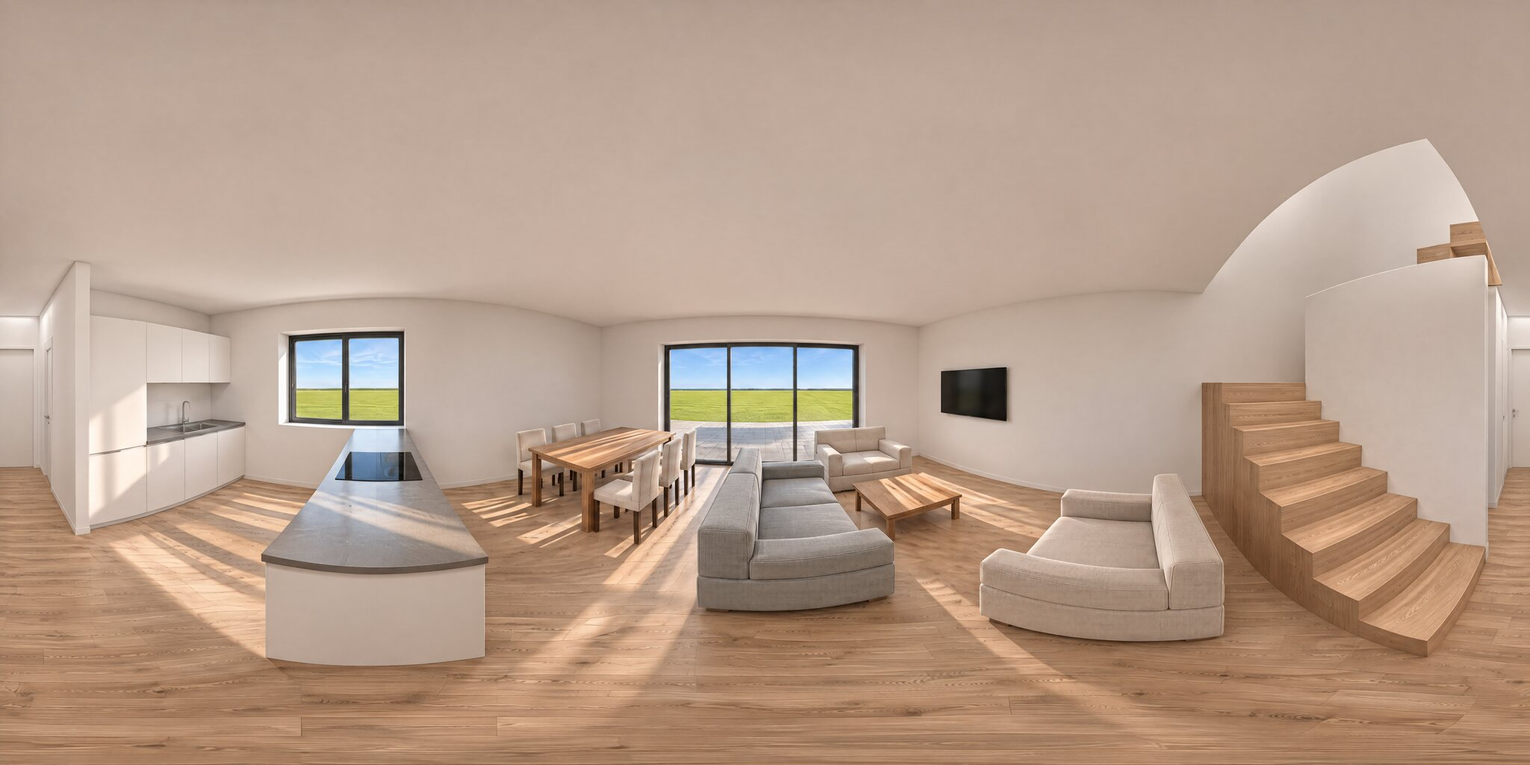
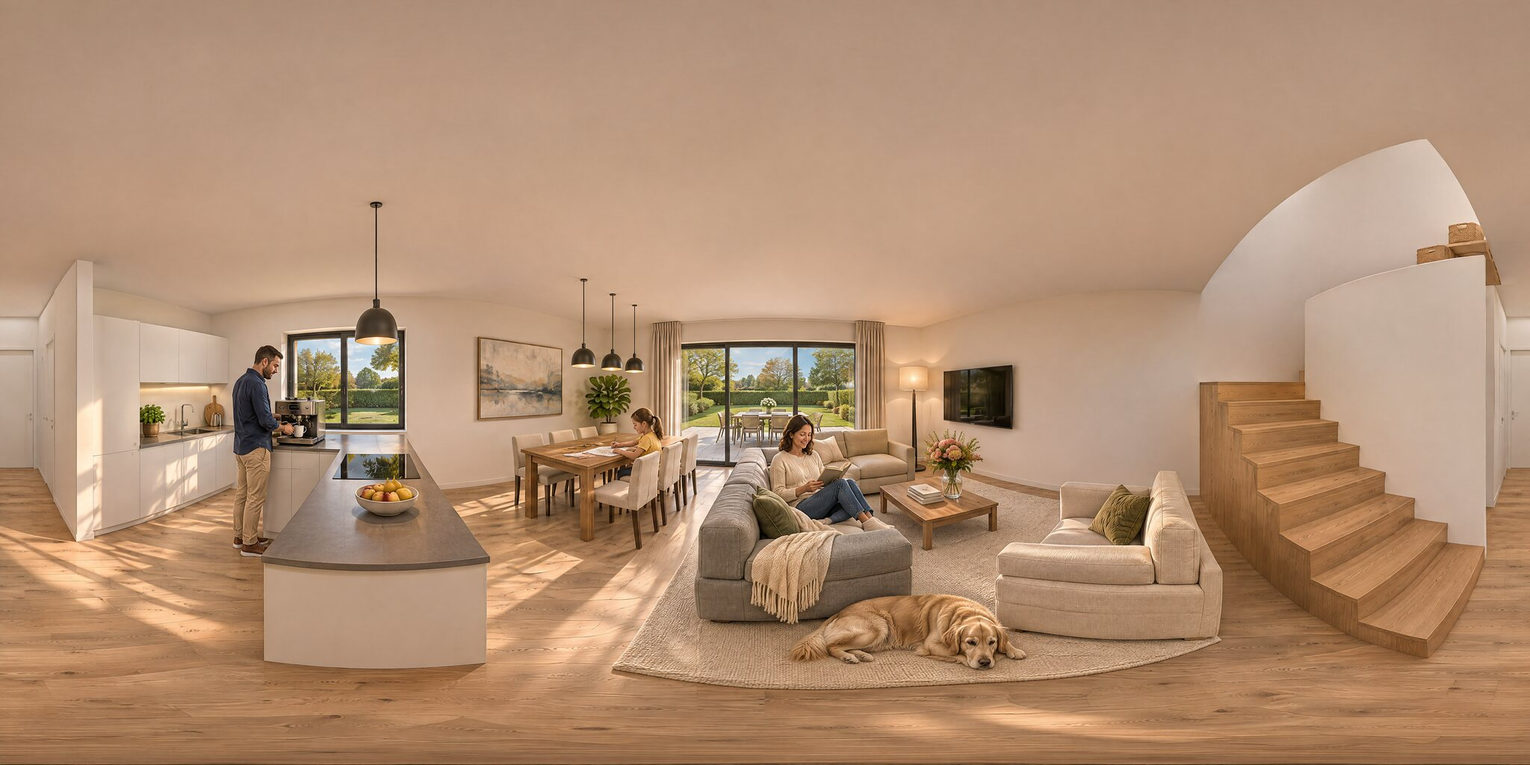
Wirtualny spacer: pięć punktów z ogrodem i wejściem, plan, opisy, pełny ekran

diff --git a/js/spacer.js b/js/spacer.js
@@ -1,10 +1,10 @@
-// Wirtualny spacer: przeglądarka panoram 360° (WebGL, bez bibliotek). Punkty i przejścia w window.SPACER.
+// Wirtualny spacer: przeglądarka panoram 360° (WebGL, bez bibliotek). Punkty, przejścia, opisy i plan w window.SPACER.
 (function () {
   var S = window.SPACER, pole = document.getElementById('spacer'), cv = document.getElementById('spacer-plotno');
   if (!S || !pole || !cv) return;
-  var gl = cv.getContext('webgl', { antialias: false, preserveDrawingBuffer: false });
+  var gl = cv.getContext('webgl', { antialias: false });
   var info = document.getElementById('spacer-info');
-  if (!gl) { info.textContent = 'Ta przeglądarka nie obsługuje podglądu 360°. Poniżej zwykłe obrazy z każdego punktu.'; pole.classList.add('spacer--bez'); return; }
+  if (!gl) { info.textContent = 'Ta przeglądarka nie obsługuje podglądu 360°.'; pole.classList.add('spacer--bez'); return; }
 
   function shader(typ, kod) { var s = gl.createShader(typ); gl.shaderSource(s, kod); gl.compileShader(s); return s; }
   var pr = gl.createProgram();
@@ -22,12 +22,15 @@
   var ap = gl.getAttribLocation(pr, 'p'); gl.enableVertexAttribArray(ap); gl.vertexAttribPointer(ap, 2, gl.FLOAT, false, 0, 0);
   var U = {}; ['yaw', 'pitch', 'tg', 'asp'].forEach(function (n) { U[n] = gl.getUniformLocation(pr, n); });
   var tex = gl.createTexture(); gl.bindTexture(gl.TEXTURE_2D, tex);
-  gl.texParameteri(gl.TEXTURE_2D, gl.TEXTURE_WRAP_S, gl.CLAMP_TO_EDGE); gl.texParameteri(gl.TEXTURE_2D, gl.TEXTURE_WRAP_T, gl.CLAMP_TO_EDGE);
+  gl.texParameteri(gl.TEXTURE_2D, gl.TEXTURE_WRAP_S, gl.REPEAT); gl.texParameteri(gl.TEXTURE_2D, gl.TEXTURE_WRAP_T, gl.CLAMP_TO_EDGE);
   gl.texParameteri(gl.TEXTURE_2D, gl.TEXTURE_MIN_FILTER, gl.LINEAR); gl.texParameteri(gl.TEXTURE_2D, gl.TEXTURE_MAG_FILTER, gl.LINEAR);
 
-  var yaw = 0, pitch = 0, akt = 0, FOV = 75 * Math.PI / 180, gotowe = false;
-  var maly = Math.min(gl.getParameter(gl.MAX_TEXTURE_SIZE), 4096) < 4096;
+  var RAD = Math.PI / 180, yaw = 0, pitch = 0, fov = 78 * RAD, akt = -1, gotowe = false, ruszone = false;
+  var vy = 0, vp = 0, ciagnie = false, klatka = 0, ost = 0;
+  var maly = gl.getParameter(gl.MAX_TEXTURE_SIZE) < 4096;
   var znaczniki = document.getElementById('spacer-znaczniki'), lista = document.getElementById('spacer-punkty');
+  var plan = document.getElementById('spacer-plan'), stozek = document.getElementById('spacer-stozek');
+  var bezRuchu = window.matchMedia('(prefers-reduced-motion: reduce)').matches;
 
   function rozmiar() {
     var r = cv.getBoundingClientRect(), d = Math.min(window.devicePixelRatio || 1, 2);
@@ -37,10 +40,9 @@
   }
   function rysuj() {
     if (!gotowe) return;
-    var r = rozmiar(), asp = r.width / r.height, tg = Math.tan(FOV / 2);
+    var r = rozmiar(), asp = r.width / r.height, tg = Math.tan(fov / 2);
     gl.uniform1f(U.yaw, yaw); gl.uniform1f(U.pitch, pitch); gl.uniform1f(U.tg, tg); gl.uniform1f(U.asp, asp);
     gl.drawArrays(gl.TRIANGLE_STRIP, 0, 4);
-    // przejścia: pigułki z nazwą punktu, ustawione w kierunku, w którym ten punkt leży na rzucie
     Array.prototype.forEach.call(znaczniki.children, function (z) {
       var k = +z.dataset.yaw, p = +z.dataset.pitch;
       var x = Math.sin(k) * Math.cos(p), y = Math.sin(p), zz = Math.cos(k) * Math.cos(p);
@@ -48,50 +50,102 @@
       var cp = Math.cos(-pitch), sp = Math.sin(-pitch), y2 = y * cp + z1 * sp, z2 = z1 * cp - y * sp;
       if (z2 <= 0.05) { z.hidden = true; return; }
       var sx = x1 / z2 / (tg * asp), syy = y2 / z2 / tg;
-      z.hidden = Math.abs(sx) > 1.05 || Math.abs(syy) > 1.05;
+      z.hidden = Math.abs(sx) > 1.02 || Math.abs(syy) > 1.02;
       z.style.left = ((sx + 1) / 2 * 100) + '%'; z.style.top = ((1 - syy) / 2 * 100) + '%';
     });
+    if (stozek) stozek.style.transform = 'translate(-50%, -50%) rotate(' + (yaw / RAD) + 'deg)';
+  }
+  function kierunek(p, x, y, z) {
+    var dx = x - p.x, dw = -(y - p.y), odl = Math.sqrt(dx * dx + dw * dw) || 1;
+    return [Math.atan2(dx, dw), Math.atan((z - 150) / odl)];
+  }
+  function ustawPunkt(n) {
+    var p = S.punkty[n]; akt = n;
+    yaw = (p.start || 0) * RAD; pitch = 0; fov = 78 * RAD; vy = vp = 0;
+    znaczniki.innerHTML = '';
+    S.punkty.forEach(function (q, k) {
+      if (k === n || (p.do && p.do.indexOf(k) < 0)) return;
+      var d = kierunek(p, q.x, q.y, 55);
+      var b = document.createElement('button'); b.type = 'button'; b.className = 'spacer__przejscie'; b.textContent = q.nazwa;
+      b.dataset.yaw = d[0]; b.dataset.pitch = Math.max(d[1], -0.5);
+      b.addEventListener('click', function () { pokaz(k); });
+      znaczniki.appendChild(b);
+    });
+    (p.fakty || []).forEach(function (f) {
+      var d = kierunek(p, f.x, f.y, f.z);
+      var b = document.createElement('button'); b.type = 'button'; b.className = 'spacer__fakt'; b.setAttribute('aria-expanded', 'false');
+      b.innerHTML = '<span class="spacer__fakt-znak" aria-hidden="true">i</span><span class="spacer__fakt-tekst">' + f.t + '</span>';
+      b.dataset.yaw = d[0]; b.dataset.pitch = d[1];
+      b.addEventListener('click', function () { b.setAttribute('aria-expanded', b.getAttribute('aria-expanded') !== 'true'); });
+      znaczniki.appendChild(b);
+    });
+    Array.prototype.forEach.call(lista.children, function (b, k) { b.setAttribute('aria-pressed', k === n); });
+    if (plan) Array.prototype.forEach.call(plan.querySelectorAll('[data-punkt]'), function (b) { b.setAttribute('aria-current', +b.dataset.punkt === n); });
+    if (stozek) { stozek.style.left = (p.u * 100) + '%'; stozek.style.top = (p.v * 100) + '%'; }
+    info.textContent = p.opis;
   }
   function pokaz(n) {
-    akt = n; var p = S.punkty[n]; gotowe = false; pole.classList.add('spacer--laduje');
+    if (n === akt) return;
+    var p = S.punkty[n]; pole.classList.add('spacer--laduje');
     var im = new Image();
     im.onload = function () {
-      gl.bindTexture(gl.TEXTURE_2D, tex); gl.texImage2D(gl.TEXTURE_2D, 0, gl.RGB, gl.RGB, gl.UNSIGNED_BYTE, im);
-      gotowe = true; pole.classList.remove('spacer--laduje'); yaw = (p.start || 0) * Math.PI / 180; pitch = 0;
-      znaczniki.innerHTML = '';
-      S.punkty.forEach(function (q, k) {
-        if (k === n) return;
-        var dx = q.x - p.x, dw = -(q.y - p.y), odl = Math.sqrt(dx * dx + dw * dw);
-        var b = document.createElement('button'); b.type = 'button'; b.className = 'spacer__przejscie'; b.textContent = q.nazwa;
-        b.dataset.yaw = Math.atan2(dx, dw); b.dataset.pitch = -Math.atan(95 / odl);
-        b.addEventListener('click', function () { pokaz(k); });
-        znaczniki.appendChild(b);
-      });
-      Array.prototype.forEach.call(lista.children, function (b, k) { b.setAttribute('aria-pressed', k === n); });
-      info.textContent = p.opis; rysuj();
+      setTimeout(function () {
+        gl.bindTexture(gl.TEXTURE_2D, tex); gl.pixelStorei(gl.UNPACK_FLIP_Y_WEBGL, false);
+        gl.texImage2D(gl.TEXTURE_2D, 0, gl.RGB, gl.RGB, gl.UNSIGNED_BYTE, im);
+        gotowe = true; ustawPunkt(n); rysuj(); pole.classList.remove('spacer--laduje');
+      }, akt < 0 || bezRuchu ? 0 : 260);
     };
     im.src = maly ? p.maly : p.obraz;
   }
   S.punkty.forEach(function (p, k) {
     var b = document.createElement('button'); b.type = 'button'; b.textContent = p.nazwa; b.setAttribute('aria-pressed', 'false');
     b.addEventListener('click', function () { pokaz(k); }); lista.appendChild(b);
+    if (plan) {
+      var m = document.createElement('button'); m.type = 'button'; m.className = 'spacer__plan-punkt'; m.dataset.punkt = k;
+      m.style.left = (p.u * 100) + '%'; m.style.top = (p.v * 100) + '%'; m.setAttribute('aria-label', p.nazwa); m.title = p.nazwa;
+      m.addEventListener('click', function () { pokaz(k); }); plan.appendChild(m);
+    }
   });
 
-  // obracanie: przeciąganie w poziomie i w pionie (na telefonie pionowy ruch przewija stronę), strzałki na klawiaturze
-  var ciagnie = false, px = 0, py = 0;
-  function ogranicz() { pitch = Math.max(-1.2, Math.min(1.2, pitch)); }
-  cv.addEventListener('pointerdown', function (e) { ciagnie = true; px = e.clientX; py = e.clientY; cv.setPointerCapture(e.pointerId); pole.classList.add('spacer--ruszony'); });
+  // ruch: przeciąganie z wybiegiem, powolny obrót do pierwszego dotknięcia, kółko i przyciski przybliżają
+  function ogranicz() { pitch = Math.max(-1.25, Math.min(1.25, pitch)); fov = Math.max(40 * RAD, Math.min(95 * RAD, fov)); }
+  function dotkniete() { if (!ruszone) { ruszone = true; pole.classList.add('spacer--ruszony'); } }
+  function tyka(t) {
+    var dt = Math.min(50, t - ost || 16); ost = t;
+    if (!ciagnie && gotowe) {
+      if (!ruszone && !bezRuchu) { yaw += 0.00006 * dt; rysuj(); }
+      else if (Math.abs(vy) > 0.00002 || Math.abs(vp) > 0.00002) { yaw += vy * dt; pitch += vp * dt; vy *= 0.93; vp *= 0.93; ogranicz(); rysuj(); }
+    }
+    klatka = requestAnimationFrame(tyka);
+  }
+  var px = 0, py = 0, pt = 0;
+  cv.addEventListener('pointerdown', function (e) { ciagnie = true; px = e.clientX; py = e.clientY; pt = e.timeStamp; vy = vp = 0; cv.setPointerCapture(e.pointerId); dotkniete(); });
   cv.addEventListener('pointermove', function (e) {
     if (!ciagnie) return;
-    var r = cv.getBoundingClientRect(), k = FOV / r.height;
-    yaw -= (e.clientX - px) * k; if (e.pointerType === 'mouse') pitch += (e.clientY - py) * k;
-    px = e.clientX; py = e.clientY; ogranicz(); rysuj();
+    var r = cv.getBoundingClientRect(), k = fov / r.height, dt = Math.max(1, e.timeStamp - pt);
+    var dy = -(e.clientX - px) * k, dp = (e.pointerType === 'mouse' || pole.classList.contains('spacer--pelny')) ? (e.clientY - py) * k : 0;
+    yaw += dy; pitch += dp; vy = dy / dt; vp = dp / dt; px = e.clientX; py = e.clientY; pt = e.timeStamp; ogranicz(); rysuj();
   });
   ['pointerup', 'pointercancel'].forEach(function (n) { cv.addEventListener(n, function () { ciagnie = false; }); });
+  cv.addEventListener('wheel', function (e) { if (!e.ctrlKey && !pole.classList.contains('spacer--pelny')) return; e.preventDefault(); fov += e.deltaY * 0.0012; ogranicz(); rysuj(); dotkniete(); }, { passive: false });
   cv.addEventListener('keydown', function (e) {
-    var d = { ArrowLeft: [-0.12, 0], ArrowRight: [0.12, 0], ArrowUp: [0, 0.08], ArrowDown: [0, -0.08] }[e.key];
-    if (!d) return; e.preventDefault(); yaw += d[0]; pitch += d[1]; ogranicz(); rysuj(); pole.classList.add('spacer--ruszony');
+    var d = { ArrowLeft: [-0.12, 0, 0], ArrowRight: [0.12, 0, 0], ArrowUp: [0, 0.08, 0], ArrowDown: [0, -0.08, 0], '+': [0, 0, -0.1], '=': [0, 0, -0.1], '-': [0, 0, 0.1] }[e.key];
+    if (!d) return; e.preventDefault(); yaw += d[0]; pitch += d[1]; fov += d[2]; ogranicz(); rysuj(); dotkniete();
   });
+  Array.prototype.forEach.call(pole.querySelectorAll('[data-zoom]'), function (b) {
+    b.addEventListener('click', function () { fov += +b.dataset.zoom * RAD; ogranicz(); rysuj(); dotkniete(); });
+  });
+  var pe = pole.querySelector('[data-pelny]');
+  function pelny(tak) { pole.classList.toggle('spacer--pelny', tak); document.documentElement.classList.toggle('spacer-otwarty', tak); if (pe) pe.textContent = tak ? 'Zamknij' : 'Pełny ekran'; setTimeout(rysuj, 60); }
+  if (pe) pe.addEventListener('click', function () {
+    var tak = !pole.classList.contains('spacer--pelny');
+    if (tak && pole.requestFullscreen) pole.requestFullscreen().catch(function () {});
+    else if (!tak && document.fullscreenElement) document.exitFullscreen();
+    pelny(tak);
+  });
+  document.addEventListener('fullscreenchange', function () { if (!document.fullscreenElement) pelny(false); });
+  document.addEventListener('keydown', function (e) { if (e.key === 'Escape' && pole.classList.contains('spacer--pelny')) pelny(false); });
   window.addEventListener('resize', rysuj);
+  klatka = requestAnimationFrame(tyka);
   pokaz(0);
 })();

diff --git a/spacer.html b/spacer.html
@@ -5,7 +5,7 @@
 <meta name="viewport" content="width=device-width, initial-scale=1">
 <meta name="robots" content="noindex, nofollow">
 <title>Wirtualny spacer: dom typu B | Osiedle Spełnionych Marzeń</title>
-<meta name="description" content="Wirtualny spacer 360° po parterze domu typu B na osiedlu przy ul. Spełnionych Marzeń w Dobrej: pokój dzienny, jadalnia, kuchnia i hol, według rzutu z projektu.">
+<meta name="description" content="Wirtualny spacer 360° po domu typu B na osiedlu przy ul. Spełnionych Marzeń w Dobrej: pokój dzienny, jadalnia, kuchnia, hol, ogród i wejście.">
 <link rel="icon" href="img/ikona.svg" type="image/svg+xml">
 <link rel="apple-touch-icon" href="img/ikona.png">
 <link rel="preload" href="fonty/onest.woff2" as="font" type="font/woff2" crossorigin>
@@ -43,21 +43,30 @@
 
 <main id="tresc">
 
-<section class="pod-glowa">
+<section class="pod-glowa spacer-glowa">
   <div class="w">
     <nav class="okruszki" aria-label="Ścieżka"><a href="index.html">Osiedle</a><span aria-hidden="true">/</span><a href="index.html#typy">Typy domów</a><span aria-hidden="true">/</span><a href="typ-b.html">Typ B</a><span aria-hidden="true">/</span><span aria-current="page">Wirtualny spacer</span></nav>
     <h1>Wirtualny spacer.</h1>
-    <p class="pod-lid">Dom typu B, parter: pokój dzienny ze schodami (28,75&nbsp;m²) i kuchnia (6,89&nbsp;m²), powierzchnie według tabeli pomieszczeń. Przeciągnij obraz, żeby się rozejrzeć, i wybierz punkt, żeby przejść dalej.</p>
+    <p class="pod-lid">Dom typu B: pokój dzienny, jadalnia z kuchnią, hol, ogród i wejście. Przeciągnij obraz, żeby się rozejrzeć, i wybierz punkt, żeby przejść dalej.</p>
     <div class="spacer" id="spacer">
-      <canvas id="spacer-plotno" tabindex="0" role="img" aria-label="Panorama 360° wnętrza domu typu B. Strzałki na klawiaturze obracają widok."></canvas>
+      <canvas id="spacer-plotno" tabindex="0" role="img" aria-label="Panorama 360° domu typu B. Strzałki na klawiaturze obracają widok, plus i minus przybliżają."></canvas>
       <div id="spacer-znaczniki"></div>
+      <div class="spacer__narzedzia">
+        <button type="button" data-zoom="-10" aria-label="Przybliż">+</button>
+        <button type="button" data-zoom="10" aria-label="Oddal">&minus;</button>
+        <button type="button" data-pelny>Pełny ekran</button>
+      </div>
+      <div class="spacer__plan" id="spacer-plan" aria-label="Plan parteru z punktami spaceru">
+        <img src="img/spacer/plan-b-parter.webp" width="720" height="720" alt="">
+        <span class="spacer__stozek" id="spacer-stozek"></span>
+      </div>
       <p class="spacer__podpowiedz">Przeciągnij, żeby się rozejrzeć</p>
     </div>
     <div class="spacer__pasek">
       <div class="filtr" role="group" aria-label="Punkt spaceru" id="spacer-punkty"></div>
       <p id="spacer-info" aria-live="polite"></p>
     </div>
-    <noscript><div class="wizualizacje"><figure><img src="img/spacer/b-parter-salon-2048.jpg" width="2048" height="1024" alt="Panorama: pokój dzienny, dom typu B, parter" loading="lazy"><figcaption>Pokój dzienny</figcaption></figure><figure><img src="img/spacer/b-parter-jadalnia-kuchnia-2048.jpg" width="2048" height="1024" alt="Panorama: jadalnia i kuchnia, dom typu B, parter" loading="lazy"><figcaption>Jadalnia i kuchnia</figcaption></figure><figure><img src="img/spacer/b-parter-hol-2048.jpg" width="2048" height="1024" alt="Panorama: hol przy schodach, dom typu B, parter" loading="lazy"><figcaption>Hol przy schodach</figcaption></figure></div></noscript>
+    <noscript><div class="wizualizacje"><figure><img src="img/spacer/b-parter-salon-2048.jpg" width="2048" height="1024" alt="Panorama: pokój dzienny, dom typu B" loading="lazy"><figcaption>Pokój dzienny</figcaption></figure><figure><img src="img/spacer/b-parter-jadalnia-kuchnia-2048.jpg" width="2048" height="1024" alt="Panorama: jadalnia i kuchnia, dom typu B" loading="lazy"><figcaption>Jadalnia i kuchnia</figcaption></figure><figure><img src="img/spacer/b-parter-hol-2048.jpg" width="2048" height="1024" alt="Panorama: hol przy schodach, dom typu B" loading="lazy"><figcaption>Hol przy schodach</figcaption></figure><figure><img src="img/spacer/b-ogrod-2048.jpg" width="2048" height="1024" alt="Panorama: ogród, dom typu B" loading="lazy"><figcaption>Ogród</figcaption></figure><figure><img src="img/spacer/b-front-2048.jpg" width="2048" height="1024" alt="Panorama: przed domem, dom typu B" loading="lazy"><figcaption>Przed domem</figcaption></figure></div></noscript>
   </div>
 </section>
 
@@ -65,13 +74,13 @@
   <div class="w">
     <h2 id="h-zrodlo">Na czym oparty jest spacer</h2>
     <dl class="odpowiedzi">
-      <div><dt>Z projektu</dt><dd>Układ i wymiary ścian, okna tarasowe i okno kuchenne, schody oraz rozmieszczenie mebli i sprzętów kuchennych: według rzutu parteru budynku typu B z projektu architektonicznego.</dd><dd><a href="pdf/typ-b-parter.pdf" target="_blank" rel="noopener">Rzut parteru (PDF)</a></dd></div>
-      <div><dt>Przykładowe</dt><dd>Kolory, materiały podłóg i wygląd mebli. Projekt ich nie określa, a dom jest oddawany w stanie deweloperskim, bez wyposażenia.</dd><dd><a href="standard.html">Standard i technologia</a></dd></div>
+      <div><dt>Z projektu</dt><dd>Układ i wymiary ścian, okna, schody oraz rozmieszczenie mebli i sprzętów kuchennych: według rzutu parteru budynku typu B. Położenie domu, tarasu, ogrodu i drogi: według planu zagospodarowania.</dd><dd><a href="pdf/typ-b-parter.pdf" target="_blank" rel="noopener">Rzut parteru (PDF)</a></dd></div>
+      <div><dt>Przykładowa aranżacja</dt><dd>Kolory, materiały, wystrój, zieleń w ogrodzie, osoby i pies. Projekt ich nie określa, a dom jest oddawany w stanie deweloperskim, bez wyposażenia.</dd><dd><a href="standard.html">Standard i technologia</a></dd></div>
     </dl>
     <p class="dalej"><a href="typ-b.html">Wszystkie rysunki i domy typu B <span aria-hidden="true">&rarr;</span></a></p>
   </div>
 </section>
-<script>window.SPACER = {"punkty": [{"nazwa": "Pokój dzienny", "x": 235, "y": 70, "start": 150, "opis": "Pokój dzienny przy oknie tarasowym 350 × 220 cm. Widok w stronę jadalni, kuchni i schodów.", "obraz": "img/spacer/b-parter-salon-4096.jpg", "maly": "img/spacer/b-parter-salon-2048.jpg"}, {"nazwa": "Jadalnia i kuchnia", "x": 305, "y": 395, "start": -20, "opis": "Środek parteru: po lewej kuchnia z półwyspem, na wprost jadalnia i okno tarasowe, po prawej schody na piętro.", "obraz": "img/spacer/b-parter-jadalnia-kuchnia-4096.jpg", "maly": "img/spacer/b-parter-jadalnia-kuchnia-2048.jpg"}, {"nazwa": "Hol przy schodach", "x": 288, "y": 600, "start": 0, "opis": "Hol między kuchnią a schodami. Za plecami drzwi do przedsionka, WC i pomieszczenia gospodarczego.", "obraz": "img/spacer/b-parter-hol-4096.jpg", "maly": "img/spacer/b-parter-hol-2048.jpg"}]};</script>
+<script>window.SPACER = {"punkty": [{"nazwa": "Pokój dzienny", "x": 235, "y": 70, "start": 150, "do": [1, 3], "opis": "Pokój dzienny przy oknie tarasowym. Stąd wyjście na taras i do ogrodu.", "fakty": [{"x": 440, "y": 300, "z": 0, "t": "Ogrzewanie podłogowe: kabel grzewczy zatopiony w posadzce."}, {"x": 430, "y": 505, "z": 70, "t": "Schody na piętro: 16 stopni. Na piętrze 3 sypialnie i łazienka."}], "u": 0.6178, "v": 0.1227, "obraz": "img/spacer/b-parter-salon-4096.jpg", "maly": "img/spacer/b-parter-salon-2048.jpg"}, {"nazwa": "Jadalnia i kuchnia", "x": 305, "y": 395, "start": -25, "do": [0, 2, 3], "opis": "Środek parteru: kuchnia z półwyspem (6,89 m²), jadalnia i pokój dzienny ze schodami (28,75 m²).", "fakty": [{"x": 298, "y": -10, "z": 150, "t": "Okno tarasowe 350 × 220 cm, wyjście na taras i do ogrodu."}, {"x": -10, "y": 447, "z": 160, "t": "Okno kuchenne 160 × 130 cm nad blatem."}, {"x": 430, "y": 505, "z": 70, "t": "Schody na piętro: 16 stopni. Na piętrze 3 sypialnie i łazienka."}], "u": 0.6839, "v": 0.4293, "obraz": "img/spacer/b-parter-jadalnia-kuchnia-4096.jpg", "maly": "img/spacer/b-parter-jadalnia-kuchnia-2048.jpg"}, {"nazwa": "Hol przy schodach", "x": 288, "y": 600, "start": 0, "do": [1, 4], "opis": "Hol między kuchnią a schodami. Za plecami drzwi do przedsionka, WC i pomieszczenia gospodarczego.", "fakty": [{"x": 430, "y": 505, "z": 70, "t": "Schody na piętro: 16 stopni. Na piętrze 3 sypialnie i łazienka."}], "u": 0.6678, "v": 0.6227, "obraz": "img/spacer/b-parter-hol-4096.jpg", "maly": "img/spacer/b-parter-hol-2048.jpg"}, {"nazwa": "Ogród", "x": 300, "y": -970, "start": 180, "do": [0], "opis": "Ogród za domem, widok na taras i okna pokoju dziennego. Działka jest ogrodzona, około 500 m².", "fakty": [{"x": 300, "y": -200, "z": 20, "t": "Taras przy pokoju dziennym, wyjście przez okno 350 × 220 cm."}], "u": 0.6791, "v": 0.04, "obraz": "img/spacer/b-ogrod-4096.jpg", "maly": "img/spacer/b-ogrod-2048.jpg"}, {"nazwa": "Przed domem", "x": 300, "y": 2200, "start": 0, "do": [2], "opis": "Wejście i podjazd od strony utwardzonej, oświetlonej drogi dojazdowej.", "fakty": [{"x": 20, "y": 1300, "z": 120, "t": "Garaż w bryle domu: 22,13 m² według tabeli pomieszczeń."}], "u": 0.6791, "v": 0.96, "obraz": "img/spacer/b-front-4096.jpg", "maly": "img/spacer/b-front-2048.jpg"}]};</script>
 
 <section class="pod-koniec" aria-labelledby="h-koniec">
   <div class="w">

diff --git a/css/podstrony.css b/css/podstrony.css
@@ -121,20 +121,41 @@
 .std-foto--kadr img { aspect-ratio: 16 / 7.5; object-fit: cover; }
 @media (max-width: 760px) { .std-foto--kadr img { aspect-ratio: 4 / 3; } }
 
-/* Wirtualny spacer: panorama 360° w zaokrąglonym kadrze, przejścia jako pigułki jak na mapie dojazdów */
+/* Wirtualny spacer: panorama 360° w zaokrąglonym kadrze, przejścia jako pigułki jak na mapie dojazdów, plan z kierunkiem patrzenia */
 .spacer { position: relative; margin-top: clamp(32px, 4vw, 56px); border-radius: var(--r); overflow: hidden; background: var(--atrament); aspect-ratio: 16 / 9; }
-.spacer canvas { display: block; width: 100%; height: 100%; cursor: grab; touch-action: pan-y; }
+.spacer canvas { display: block; width: 100%; height: 100%; cursor: grab; touch-action: pan-y; transition: opacity .26s ease; }
 .spacer canvas:active { cursor: grabbing; }
-.spacer--laduje canvas { opacity: .35; }
-.spacer__przejscie { position: absolute; transform: translate(-50%, -50%); border: 0; background: #fff; color: var(--atrament); border-radius: 999px; min-height: 44px; padding: 0 18px; font: 600 15px/1 var(--sans); white-space: nowrap; box-shadow: 0 6px 18px rgba(12, 23, 48, .28); cursor: pointer; }
-.spacer__przejscie[hidden] { display: none; }
+.spacer--laduje canvas { opacity: 0; }
+.spacer__przejscie { position: absolute; transform: translate(-50%, -50%); border: 0; background: #fff; color: var(--atrament); border-radius: 999px; min-height: 44px; padding: 0 18px 0 14px; font: 600 15px/1 var(--sans); white-space: nowrap; box-shadow: 0 6px 18px rgba(12, 23, 48, .28); cursor: pointer; display: inline-flex; align-items: center; gap: 9px; }
+.spacer__przejscie::before { content: ""; width: 12px; height: 12px; border-radius: 50%; background: var(--kobalt); box-shadow: 0 0 0 4px rgba(31, 79, 163, .22); }
+.spacer__przejscie[hidden], .spacer__fakt[hidden] { display: none; }
+.spacer__fakt { position: absolute; transform: translate(-17px, -50%); border: 0; padding: 0; background: none; display: inline-flex; align-items: center; gap: 8px; cursor: pointer; font: 500 14px/1.3 var(--sans); color: var(--atrament); text-align: left; }
+.spacer__fakt-znak { flex: none; width: 34px; height: 34px; border-radius: 50%; background: rgba(21, 33, 58, .78); color: #fff; display: grid; place-items: center; font: 700 16px/1 var(--sans); box-shadow: 0 0 0 2px rgba(255, 255, 255, .85); }
+.spacer__fakt-tekst { display: none; background: #fff; border-radius: 12px; padding: 9px 13px; max-width: 230px; box-shadow: 0 6px 18px rgba(12, 23, 48, .28); }
+.spacer__fakt[aria-expanded="true"] .spacer__fakt-tekst { display: block; }
+.spacer__fakt[aria-expanded="true"] .spacer__fakt-znak { background: var(--kobalt); }
 .spacer__podpowiedz { position: absolute; left: 50%; bottom: 18px; transform: translateX(-50%); background: rgba(21, 33, 58, .82); color: #fff; border-radius: 999px; padding: 9px 18px; font-size: 14px; pointer-events: none; white-space: nowrap; }
 .spacer--ruszony .spacer__podpowiedz, .spacer--bez .spacer__podpowiedz { display: none; }
+.spacer__narzedzia { position: absolute; right: 14px; top: 14px; display: flex; gap: 6px; }
+.spacer__narzedzia button { border: 0; background: rgba(21, 33, 58, .78); color: #fff; border-radius: 999px; min-width: 44px; min-height: 44px; padding: 0 16px; font: 600 15px/1 var(--sans); cursor: pointer; }
+.spacer__plan { position: absolute; left: 14px; bottom: 14px; width: clamp(150px, 17vw, 230px); aspect-ratio: 1; background: rgba(255, 255, 255, .94); border-radius: 14px; overflow: hidden; box-shadow: 0 6px 18px rgba(12, 23, 48, .28); }
+.spacer__plan img { width: 100%; height: 100%; object-fit: cover; opacity: .9; }
+.spacer__plan-punkt { position: absolute; transform: translate(-50%, -50%); width: 30px; height: 30px; border: 0; padding: 0; background: none; cursor: pointer; }
+.spacer__plan-punkt::before { content: ""; position: absolute; left: 50%; top: 50%; width: 12px; height: 12px; margin: -6px 0 0 -6px; border-radius: 50%; background: #fff; box-shadow: 0 0 0 3px var(--kobalt); }
+.spacer__plan-punkt[aria-current="true"]::before { background: var(--kobalt); box-shadow: 0 0 0 3px #fff, 0 0 0 5px var(--kobalt); }
+.spacer__stozek { position: absolute; width: 0; height: 0; pointer-events: none; }
+.spacer__stozek::before { content: ""; position: absolute; left: -26px; top: -52px; width: 52px; height: 52px; background: conic-gradient(from -32deg at 50% 100%, rgba(31, 79, 163, .42) 64deg, transparent 0); border-radius: 50%; }
 .spacer--bez { aspect-ratio: auto; background: none; }
-.spacer--bez canvas { display: none; }
+.spacer--bez canvas, .spacer--bez .spacer__plan, .spacer--bez .spacer__narzedzia { display: none; }
+.spacer--pelny { position: fixed; inset: 0; z-index: 60; margin: 0; border-radius: 0; aspect-ratio: auto; }
+.spacer--pelny canvas { touch-action: none; }
+.spacer-otwarty { overflow: hidden; }
 .spacer__pasek { display: flex; flex-wrap: wrap; align-items: center; gap: 12px 24px; margin-top: 18px; }
-.spacer__pasek p { color: var(--tekst-2); font-size: 16px; margin: 0; }
+.spacer__pasek p { color: var(--tekst-2); font-size: 16px; margin: 0; flex: 1 1 320px; }
 @media (max-width: 760px) {
   .spacer { aspect-ratio: 4 / 5; margin-left: calc(-1 * var(--margines)); margin-right: calc(-1 * var(--margines)); border-radius: 0; }
-  .spacer__podpowiedz { font-size: 13px; }
+  .spacer__podpowiedz { font-size: 13px; bottom: auto; top: 70px; }
+  .spacer__plan { width: 128px; left: 10px; bottom: 10px; }
+  .spacer__fakt-tekst { max-width: 170px; font-size: 13px; }
+  .spacer__narzedzia { right: 10px; top: 10px; }
 }
